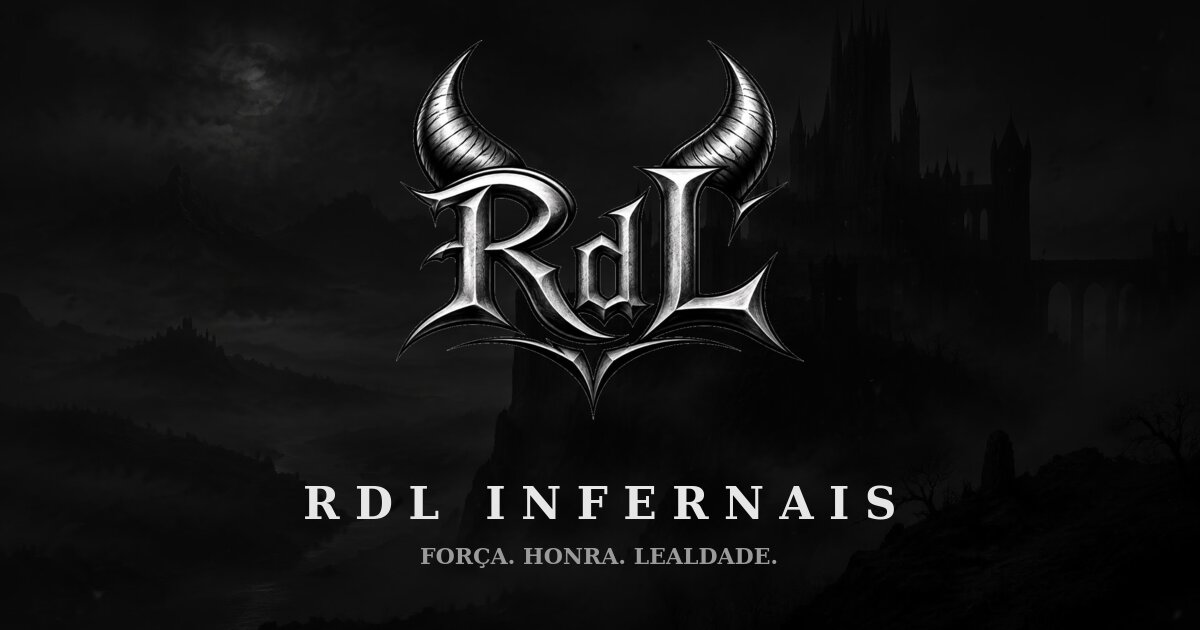
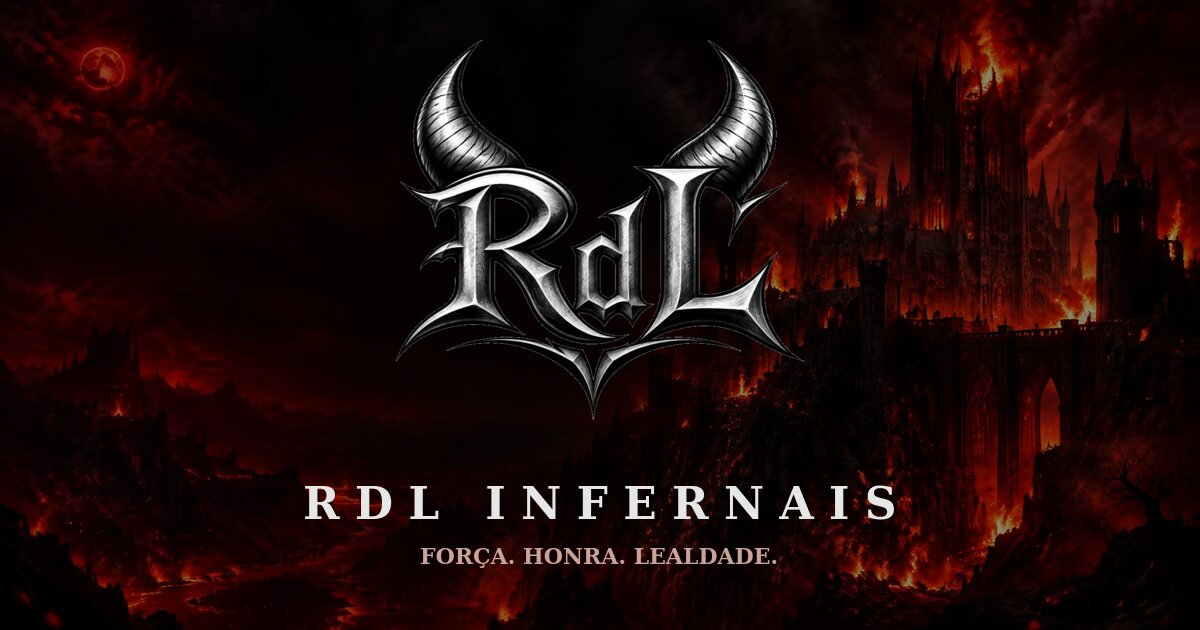
Fire castle background, reddish ember theme, gradual horn reveal with falling sparks

diff --git a/src/components/rdl/Sections.tsx b/src/components/rdl/Sections.tsx
@@ -1,8 +1,8 @@
 import { Link } from "@tanstack/react-router";
 import { motion } from "framer-motion";
 import { Shield, Swords, Users, ChevronDown } from "lucide-react";
-import castle from "@/assets/castle-fog.jpg";
-import { Logo } from "./Logo";
+import castle from "@/assets/castle-fire.jpg";
+import { LogoReveal } from "./LogoReveal";
 import { Ash } from "./Ash";
 import { Reveal, Ornament } from "./Reveal";
 import { useSiteSettings } from "@/lib/use-site-settings";
@@ -21,14 +21,13 @@ export function Hero() {
   const { settings } = useSiteSettings();
   return (
     <section className="relative flex min-h-[100svh] items-center justify-center overflow-hidden px-4 pt-16">
-      <img src={castle} alt="" width={1920} height={1088} className="absolute inset-0 size-full object-cover opacity-60" />
-      <div className="absolute inset-0 bg-gradient-to-b from-abyss/70 via-abyss/30 to-abyss" />
+      <img src={castle} alt="" width={1920} height={1088} className="absolute inset-0 size-full object-cover opacity-75" />
+      <div className="absolute inset-0 bg-gradient-to-b from-abyss/60 via-abyss/30 to-abyss" />
+      <div className="fire-glow absolute inset-x-0 bottom-0 h-2/3" />
       <div className="smoke absolute -left-1/4 bottom-0 h-1/2 w-[150%]" />
       <Ash />
       <div className="relative z-10 flex flex-col items-center text-center">
-        <motion.div initial={{ opacity: 0, scale: 0.92 }} animate={{ opacity: 1, scale: 1 }} transition={{ duration: 1.4, delay: 0.3 }}>
-          <Logo className="mb-4 h-44 sm:h-60 md:h-72" />
-        </motion.div>
+        <div className="mb-4"><LogoReveal className="h-44 sm:h-60 md:h-72" delay={0.3} embers={22} /></div>
         <motion.h1 initial={{ opacity: 0, y: 20 }} animate={{ opacity: 1, y: 0 }} transition={{ delay: 0.8, duration: 0.9 }}
           className="font-display text-3xl font-black tracking-[0.3em] text-primary sm:text-5xl">
           RDL INFERNAIS
@@ -97,11 +96,11 @@ export function Recruit() {
   const { settings } = useSiteSettings();
   return (
     <section className="relative overflow-hidden border-y border-border px-4 py-24 sm:py-32">
-      <img src={castle} alt="" loading="lazy" width={1920} height={1088} className="absolute inset-0 size-full object-cover opacity-20" />
+      <img src={castle} alt="" loading="lazy" width={1920} height={1088} className="absolute inset-0 size-full object-cover opacity-30" />
       <div className="absolute inset-0 bg-gradient-to-b from-abyss via-abyss/60 to-abyss" />
       <div className="smoke absolute -right-1/4 top-1/4 h-1/2 w-[120%]" />
       <Reveal className="relative mx-auto max-w-3xl text-center">
-        <Logo className="mx-auto h-20 opacity-90" />
+        <LogoReveal className="mx-auto h-20" embers={10} />
         <h2 className="mt-6 font-gothic text-4xl text-metal sm:text-6xl">Sua jornada começa aqui.</h2>
         <div className="mt-6"><Ornament /></div>
         <p className="mt-6 text-lg text-foreground/80">

diff --git a/src/styles.css b/src/styles.css
@@ -31,6 +31,8 @@
   --color-silver: var(--silver);
   --color-steel: var(--steel);
   --color-abyss: var(--abyss);
+  --color-ember: var(--ember);
+  --color-blood: var(--blood);
   --font-gothic: "UnifrakturCook", "UnifrakturMaguntia", serif;
   --font-display: "Cinzel", serif;
   --font-sans: "Barlow", system-ui, sans-serif;
@@ -60,6 +62,9 @@
   --ring: oklch(0.57 0 0);
   --silver: oklch(0.85 0 0);
   --steel: oklch(0.57 0 0);
+  --ember: oklch(0.72 0.19 45);
+  --blood: oklch(0.45 0.18 25);
+  --glow-ember: 0 0 40px oklch(0.55 0.2 30 / 0.35);
 
   --gradient-metal: linear-gradient(180deg, oklch(0.42 0 0) 0%, oklch(0.2 0 0) 45%, oklch(0.12 0 0) 55%, oklch(0.26 0 0) 100%);
   --gradient-metal-hover: linear-gradient(180deg, oklch(0.55 0 0) 0%, oklch(0.28 0 0) 45%, oklch(0.16 0 0) 55%, oklch(0.34 0 0) 100%);
@@ -147,7 +152,7 @@
   100% { transform: translateX(10%) scale(1.15); opacity: 0.25; }
 }
 @utility smoke {
-  background: radial-gradient(ellipse at center, oklch(0.6 0 0 / 0.18), transparent 60%);
+  background: radial-gradient(ellipse at center, oklch(0.45 0.15 28 / 0.28), transparent 60%);
   filter: blur(40px);
   animation: smoke-drift 22s ease-in-out infinite alternate;
 }
@@ -162,8 +167,34 @@
   position: absolute;
   bottom: -10px;
   border-radius: 9999px;
-  background: var(--silver);
+  background: var(--ember);
+  box-shadow: 0 0 6px var(--ember), 0 0 12px var(--blood);
   animation: ash-rise linear infinite;
+}
+
+@keyframes ember-fall {
+  0% { transform: translate3d(0, 0, 0) scale(1); opacity: 0; }
+  15% { opacity: var(--o, 0.9); }
+  80% { opacity: var(--o, 0.9); }
+  100% { transform: translate3d(var(--dx, 10px), var(--fall, 140px), 0) scale(0.3); opacity: 0; }
+}
+@utility ember {
+  position: absolute;
+  top: -6px;
+  border-radius: 9999px;
+  background: oklch(0.85 0.15 70);
+  box-shadow: 0 0 4px var(--ember), 0 0 10px var(--blood);
+  animation: ember-fall ease-in infinite;
+}
+
+@keyframes fire-flicker {
+  0%, 100% { opacity: 0.55; }
+  40% { opacity: 0.75; }
+  60% { opacity: 0.5; }
+}
+@utility fire-glow {
+  background: radial-gradient(ellipse at 50% 100%, oklch(0.5 0.2 30 / 0.45), transparent 65%);
+  animation: fire-flicker 4s ease-in-out infinite;
 }
 
 @media (prefers-reduced-motion: reduce) {

diff --git a/src/components/rdl/Intro.tsx b/src/components/rdl/Intro.tsx
@@ -1,6 +1,6 @@
 import { AnimatePresence, motion, useReducedMotion } from "framer-motion";
 import { useEffect, useState } from "react";
-import { Logo } from "./Logo";
+import { LogoReveal } from "./LogoReveal";
 import { Ash } from "./Ash";
 
 export function Intro() {
@@ -8,7 +8,7 @@ export function Intro() {
   const [show, setShow] = useState(true);
   useEffect(() => {
     if (sessionStorage.getItem("rdl-intro")) { setShow(false); return; }
-    const t = setTimeout(() => { setShow(false); sessionStorage.setItem("rdl-intro", "1"); }, reduce ? 600 : 3600);
+    const t = setTimeout(() => { setShow(false); sessionStorage.setItem("rdl-intro", "1"); }, reduce ? 600 : 4200);
     return () => clearTimeout(t);
   }, [reduce]);
   return (
@@ -20,13 +20,8 @@ export function Intro() {
           onClick={() => setShow(false)}
         >
           <Ash count={30} />
-          <motion.div
-            initial={{ opacity: 0, scale: 0.9, filter: "blur(12px)", clipPath: "inset(50% 0 50% 0)" }}
-            animate={{ opacity: 1, scale: 1, filter: "blur(0px)", clipPath: "inset(0% 0 0% 0)" }}
-            transition={{ duration: 1.6, ease: [0.2, 0.7, 0.2, 1] }}
-          >
-            <Logo className="h-40 sm:h-56" />
-          </motion.div>
+          <div aria-hidden className="fire-glow absolute inset-x-0 bottom-0 h-1/2" />
+          <LogoReveal className="h-40 sm:h-56" embers={16} />
           <motion.h1
             className="mt-6 font-display text-xl sm:text-3xl font-bold tracking-[0.4em] text-primary"
             initial={{ opacity: 0, y: 10 }} animate={{ opacity: 1, y: 0 }} transition={{ delay: 1.5, duration: 0.8 }}

diff --git a/src/components/rdl/LogoReveal.tsx b/src/components/rdl/LogoReveal.tsx
@@ -1,0 +1,31 @@
+import { motion, useReducedMotion } from "framer-motion";
+import { Logo } from "./Logo";
+import { Embers } from "./Embers";
+
+/**
+ * Original logo with a staged entrance: the letters appear first, then the horns
+ * rise into view from bottom to top. Fire sparks fall onto the horns.
+ */
+export function LogoReveal({ className = "", delay = 0, embers = 18 }: { className?: string; delay?: number; embers?: number }) {
+  const reduce = useReducedMotion();
+  const letters = { initial: { opacity: 0, filter: "blur(10px)" }, animate: { opacity: 1, filter: "blur(0px)" } };
+  return (
+    <div className="relative inline-block">
+      <div aria-hidden className="fire-glow absolute -inset-x-10 -bottom-6 top-1/3 blur-2xl" />
+      {/* Letters: the lower part of the image */}
+      <motion.div {...(reduce ? {} : letters)} transition={{ duration: 1, delay }} style={{ clipPath: "inset(42% 0 0 0)" }} className="absolute inset-0">
+        <Logo className={className} />
+      </motion.div>
+      {/* Full image (horns) revealed upward, gradually */}
+      <motion.div
+        initial={reduce ? false : { clipPath: "inset(42% 0 0 0)", opacity: 0 }}
+        animate={{ clipPath: "inset(0% 0 0 0)", opacity: 1 }}
+        transition={{ duration: 2.4, delay: delay + 0.8, ease: [0.3, 0.6, 0.2, 1] }}
+        className="relative"
+      >
+        <Logo className={className} />
+      </motion.div>
+      {embers > 0 && !reduce && <Embers count={embers} className="-top-10" />}
+    </div>
+  );
+}

diff --git a/src/components/rdl/Embers.tsx b/src/components/rdl/Embers.tsx
@@ -1,0 +1,30 @@
+import { useEffect, useState } from "react";
+
+type E = { left: number; size: number; dur: number; delay: number; dx: number; fall: number; o: number };
+
+/** Small fire sparks falling from above onto whatever sits below (the logo horns). */
+export function Embers({ count = 18, className = "" }: { count?: number; className?: string }) {
+  const [parts, setParts] = useState<E[]>([]);
+  useEffect(() => {
+    setParts(Array.from({ length: count }, () => ({
+      left: 10 + Math.random() * 80,
+      size: 1.5 + Math.random() * 2.5,
+      dur: 2.5 + Math.random() * 3,
+      delay: -Math.random() * 5,
+      dx: (Math.random() - 0.5) * 40,
+      fall: 90 + Math.random() * 120,
+      o: 0.5 + Math.random() * 0.5,
+    })));
+  }, [count]);
+  return (
+    <div aria-hidden className={`pointer-events-none absolute inset-x-0 top-0 h-1/2 ${className}`}>
+      {parts.map((p, i) => (
+        <span key={i} className="ember" style={{
+          left: `${p.left}%`, width: p.size, height: p.size,
+          animationDuration: `${p.dur}s`, animationDelay: `${p.delay}s`,
+          ["--dx" as string]: `${p.dx}px`, ["--fall" as string]: `${p.fall}px`, ["--o" as string]: p.o,
+        }} />
+      ))}
+    </div>
+  );
+}
